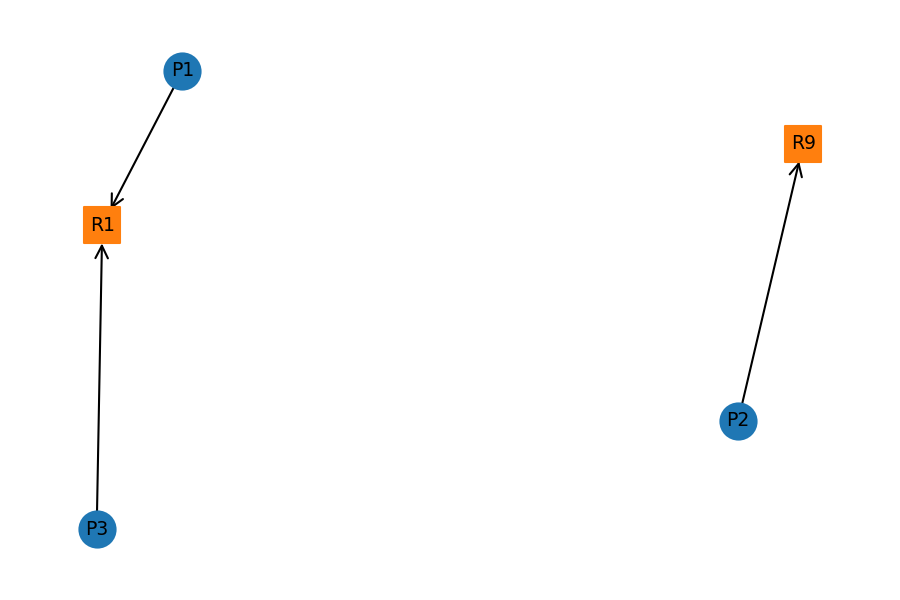
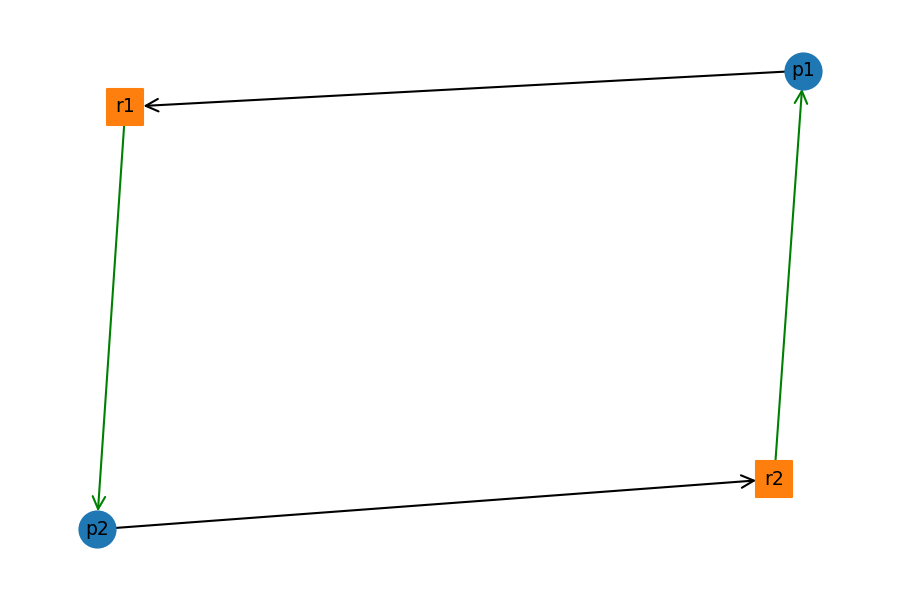
Added resource allocation graph visualization with deadlock detection

diff --git a/templates/index.html b/templates/index.html
@@ -15,14 +15,32 @@
 {% endif %}
 
 <form method="POST">
+    <input type="hidden" name="action" value="request">
     <label>Process:</label>
     <input type="text" name="process" required>
 
     <label>Resource:</label>
     <input type="text" name="resource" required>
 
-    <button type="submit">Add</button>
+    <button type="submit">Add Request</button>
 </form>
+
+<form method="POST">
+    <input type="hidden" name="action" value="allocation">
+    <label>Process:</label>
+    <input type="text" name="process" required>
+
+    <label>Resource:</label>
+    <input type="text" name="resource" required>
+
+    <button type="submit">Add Allocation</button>
+</form>
+
+<p><strong>Legend:</strong></p>
+<ul style="list-style: none; padding-left: 0;">
+    <li><span style="color: black;">&#8594;</span> Black arrow = Request</li>
+    <li><span style="color: green;">&#8594;</span> Green arrow = Allocation</li>
+</ul>
 
 <form method="GET" action="/graph">
     <button type="submit">Show Graph</button>

diff --git a/app.py b/app.py
@@ -19,8 +19,11 @@ def home():
     if request.method == "POST":
         process = request.form["process"]
         resource = request.form["resource"]
-        # Register nodes and add a request edge process → resource
-        rag.add_request(process, resource)
+        action = request.form.get("action", "request")
+        if action == "request":
+            rag.add_request(process, resource)
+        elif action == "allocation":
+            rag.add_allocation(resource, process)
 
     return render_template(
         "index.html",
@@ -66,8 +69,36 @@ def show_graph():
             ax=ax,
         )
 
-    # Draw directed edges (if any)
-    nx.draw_networkx_edges(rag.graph, pos, arrowstyle="->", arrowsize=15, ax=ax)
+    request_edges = [
+        (u, v)
+        for u, v, d in rag.graph.edges(data=True)
+        if d.get("kind") == "request"
+    ]
+    allocation_edges = [
+        (u, v)
+        for u, v, d in rag.graph.edges(data=True)
+        if d.get("kind") == "allocation"
+    ]
+    if request_edges:
+        nx.draw_networkx_edges(
+            rag.graph,
+            pos,
+            edgelist=request_edges,
+            edge_color="black",
+            arrowstyle="->",
+            arrowsize=15,
+            ax=ax,
+        )
+    if allocation_edges:
+        nx.draw_networkx_edges(
+            rag.graph,
+            pos,
+            edgelist=allocation_edges,
+            edge_color="green",
+            arrowstyle="->",
+            arrowsize=15,
+            ax=ax,
+        )
 
     # Draw labels for all nodes
     nx.draw_networkx_labels(rag.graph, pos, font_size=9, ax=ax)

diff --git a/graph_logic.py b/graph_logic.py
@@ -44,6 +44,12 @@ class ResourceAllocationGraph:
         # Directed edge from process to resource models a request
         self.graph.add_edge(process, resource, kind="request")
 
+    def add_allocation(self, resource, process):
+        """Add an allocation edge resource → process between existing or new nodes."""
+        self.add_resource(resource)
+        self.add_process(process)
+        self.graph.add_edge(resource, process, kind="allocation")
+
     def detect_deadlock(self):
         """Return True if the directed graph has a cycle (deadlock), else False."""
         if self.graph.number_of_nodes() == 0:
